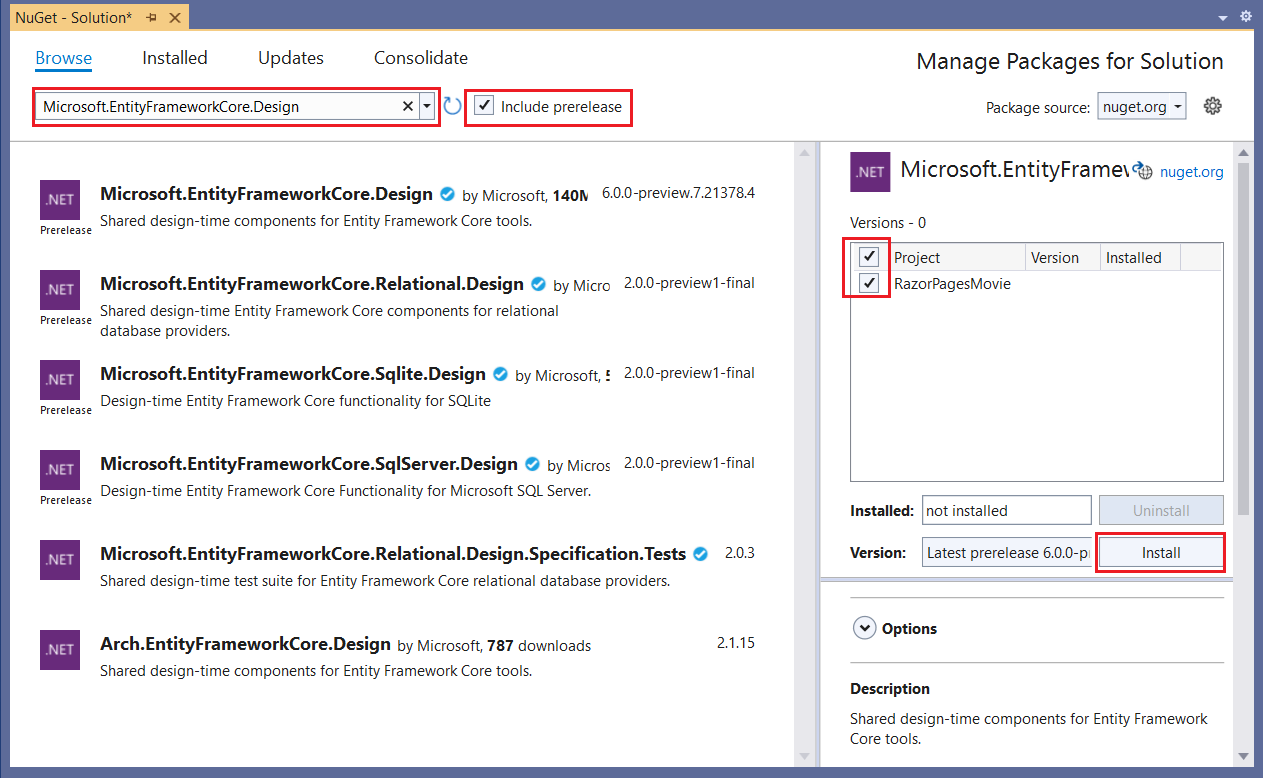
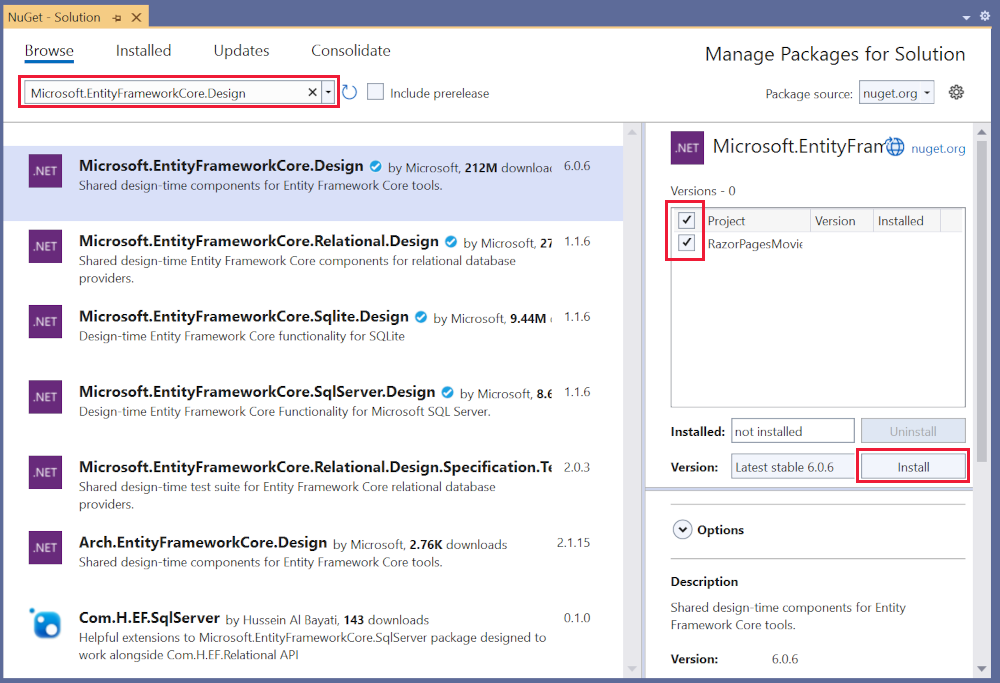
Updated scaffold pages and nuget screenshot

Changed region(s): [[0.0, 0.0, 1.0, 1.0], [0.558, 0.7687, 0.589, 0.8302], [0.558, 0.8917, 0.589, 0.9224]]

diff --git a/aspnetcore/tutorials/razor-pages/razor-pages-start/snapshot_sample6/Pages/Movies/Delete.cshtml.cs b/aspnetcore/tutorials/razor-pages/razor-pages-start/snapshot_sample6/Pages/Movies/Delete.cshtml.cs
@@ -10,10 +10,6 @@ using RazorPagesMovie.Models;
 
 namespace RazorPagesMovie.Pages.Movies
 {
-#pragma warning disable CS8618
-#pragma warning disable CS8601
-#pragma warning disable CS8602
-#pragma warning disable CS8604
     public class DeleteModel : PageModel
     {
         private readonly RazorPagesMovie.Data.RazorPagesMovieContext _context;
@@ -24,35 +20,39 @@ namespace RazorPagesMovie.Pages.Movies
         }
 
         [BindProperty]
-        public Movie Movie { get; set; }
+      public Movie Movie { get; set; } = default!;
 
         public async Task<IActionResult> OnGetAsync(int? id)
         {
-            if (id == null)
+            if (id == null || _context.Movie == null)
             {
                 return NotFound();
             }
 
-            Movie = await _context.Movie.FirstOrDefaultAsync(m => m.ID == id);
+            var movie = await _context.Movie.FirstOrDefaultAsync(m => m.ID == id);
 
-            if (Movie == null)
+            if (movie == null)
             {
                 return NotFound();
+            }
+            else 
+            {
+                Movie = movie;
             }
             return Page();
         }
 
         public async Task<IActionResult> OnPostAsync(int? id)
         {
-            if (id == null)
+            if (id == null || _context.Movie == null)
             {
                 return NotFound();
             }
+            var movie = await _context.Movie.FindAsync(id);
 
-            Movie = await _context.Movie.FindAsync(id);
-
-            if (Movie != null)
+            if (movie != null)
             {
+                Movie = movie;
                 _context.Movie.Remove(Movie);
                 await _context.SaveChangesAsync();
             }
@@ -60,8 +60,4 @@ namespace RazorPagesMovie.Pages.Movies
             return RedirectToPage("./Index");
         }
     }
-#pragma warning restore CS8618
-#pragma warning restore CS8601
-#pragma warning restore CS8602
-#pragma warning restore CS8604
 }

diff --git a/aspnetcore/tutorials/razor-pages/razor-pages-start/snapshot_sample6/Pages/Movies/Edit.cshtml.cs b/aspnetcore/tutorials/razor-pages/razor-pages-start/snapshot_sample6/Pages/Movies/Edit.cshtml.cs
@@ -11,9 +11,7 @@ using RazorPagesMovie.Models;
 
 namespace RazorPagesMovie.Pages.Movies
 {
-#pragma warning disable CS8618
-#pragma warning disable CS8601
-#pragma warning disable CS8604
+#region snippet2
     public class EditModel : PageModel
     {
         private readonly RazorPagesMovie.Data.RazorPagesMovieContext _context;
@@ -24,26 +22,27 @@ namespace RazorPagesMovie.Pages.Movies
         }
 
         [BindProperty]
-        public Movie Movie { get; set; }
+        public Movie Movie { get; set; } = default!;
 
         public async Task<IActionResult> OnGetAsync(int? id)
         {
-            if (id == null)
+            if (id == null || _context.Movie == null)
             {
                 return NotFound();
             }
 
-            Movie = await _context.Movie.FirstOrDefaultAsync(m => m.ID == id);
-
-            if (Movie == null)
+            var movie =  await _context.Movie.FirstOrDefaultAsync(m => m.ID == id);
+            if (movie == null)
             {
                 return NotFound();
             }
+            Movie = movie;
             return Page();
         }
 
         // To protect from overposting attacks, enable the specific properties you want to bind to.
         // For more details, see https://aka.ms/RazorPagesCRUD.
+		#region snippet1
         public async Task<IActionResult> OnPostAsync()
         {
             if (!ModelState.IsValid)
@@ -74,10 +73,9 @@ namespace RazorPagesMovie.Pages.Movies
 
         private bool MovieExists(int id)
         {
-            return _context.Movie.Any(e => e.ID == id);
+          return (_context.Movie?.Any(e => e.ID == id)).GetValueOrDefault();
         }
+#endregion
+#endregion
     }
-#pragma warning restore CS8618
-#pragma warning restore CS8601
-#pragma warning restore CS8604
 }

diff --git a/aspnetcore/tutorials/razor-pages/razor-pages-start/snapshot_sample6/Pages/Movies/Create.cshtml.cs b/aspnetcore/tutorials/razor-pages/razor-pages-start/snapshot_sample6/Pages/Movies/Create.cshtml.cs
@@ -5,9 +5,6 @@ using RazorPagesMovie.Models;
 
 namespace RazorPagesMovie.Pages.Movies
 {
-#pragma warning disable CS8618
-#pragma warning disable CS8602
-
     public class CreateModel : PageModel
     {
         private readonly RazorPagesMovie.Data.RazorPagesMovieContext _context;
@@ -23,13 +20,14 @@ namespace RazorPagesMovie.Pages.Movies
         }
 
         [BindProperty]
-        public Movie Movie { get; set; }
+        public Movie Movie { get; set; } = default!;
+        
 
         // To protect from overposting attacks, see https://aka.ms/RazorPagesCRUD
         #region snippetPost
         public async Task<IActionResult> OnPostAsync()
         {
-            if (!ModelState.IsValid)
+          if (!ModelState.IsValid || _context.Movie == null || Movie == null)
             {
                 return Page();
             }
@@ -41,7 +39,5 @@ namespace RazorPagesMovie.Pages.Movies
         }
         #endregion
     }
-#pragma warning restore CS8618
-#pragma warning restore CS8602
 }
 #endregion

diff --git a/aspnetcore/tutorials/razor-pages/razor-pages-start/snapshot_sample6/Pages/Movies/Index.cshtml.cs b/aspnetcore/tutorials/razor-pages/razor-pages-start/snapshot_sample6/Pages/Movies/Index.cshtml.cs
@@ -6,8 +6,6 @@ using RazorPagesMovie.Models;
 #region snippet
 namespace RazorPagesMovie.Pages.Movies
 {
-#pragma warning disable CS8618
-#pragma warning disable CS8604
     #region snippet2
     public class IndexModel : PageModel
     {
@@ -19,15 +17,16 @@ namespace RazorPagesMovie.Pages.Movies
         }
         #endregion
 
-        public IList<Movie> Movie { get; set; }
+        public IList<Movie> Movie { get;set; } = default!;
 
         public async Task OnGetAsync()
         {
-            Movie = await _context.Movie.ToListAsync();
+            if (_context.Movie != null)
+            {
+                Movie = await _context.Movie.ToListAsync();
+            }
         }
     }
-#pragma warning restore CS8618
-#pragma warning restore CS8604
 }
 #endregion
 #endregion

diff --git a/aspnetcore/tutorials/razor-pages/razor-pages-start/snapshot_sample6/Pages/Movies/IndexClean.cshtml.cs b/aspnetcore/tutorials/razor-pages/razor-pages-start/snapshot_sample6/Pages/Movies/IndexClean.cshtml.cs
@@ -17,11 +17,14 @@ namespace RazorPagesMovie.Pages.Movies
         }
         #endregion
 
-        public IList<Movie> Movie { get; set; }
+        public IList<Movie> Movie { get;set; } = default!;
 
         public async Task OnGetAsync()
         {
-            Movie = await _context.Movie.ToListAsync();
+            if (_context.Movie != null)
+            {
+                Movie = await _context.Movie.ToListAsync();
+            }
         }
     }
 }

diff --git a/aspnetcore/tutorials/razor-pages/razor-pages-start/sample/RazorPagesMovie60/Program.cs b/aspnetcore/tutorials/razor-pages/razor-pages-start/sample/RazorPagesMovie60/Program.cs
@@ -6,6 +6,7 @@ using Microsoft.EntityFrameworkCore;
 using Microsoft.Extensions.DependencyInjection;
 using RazorPagesMovie.Data;
 using RazorPagesMovie.Models;
+
 var builder = WebApplication.CreateBuilder(args);
 
 // Add services to the container.

diff --git a/aspnetcore/tutorials/razor-pages/da1.md b/aspnetcore/tutorials/razor-pages/da1.md
@@ -83,13 +83,13 @@ Test the behavior of `@page "{id:int?}"`:
 
 With the `@page "{id:int}"` directive, the break point is never hit. The routing engine returns HTTP 404. Using `@page "{id:int?}"`, the `OnGetAsync` method returns `NotFound` (HTTP 404):
 
-[!code-csharp[](~/tutorials/razor-pages/razor-pages-start/sample/RazorPagesMovie50/Pages/Movies/Details.cshtml.cs?name=snippet1&highlight=3-6)]
+[!code-csharp[](~/tutorials/razor-pages/razor-pages-start/snapshot_sample6/Pages/Movies/Details.cshtml.cs?name=snippet1&highlight=3-6)]
 
 ### Review concurrency exception handling
 
 Review the `OnPostAsync` method in the `Pages/Movies/Edit.cshtml.cs` file:
 
-[!code-csharp[](~/tutorials/razor-pages/razor-pages-start/sample/RazorPagesMovie30/Pages/Movies/Edit.cshtml.cs?name=snippet)]
+[!code-csharp[](~/tutorials/razor-pages/razor-pages-start/snapshot_sample6/Pages/Movies/Edit.cshtml.cs?name=snippet1)]
 
 The previous code detects concurrency exceptions when one client deletes the movie and the other client posts changes to the movie.
 
@@ -106,7 +106,7 @@ Production code may want to detect concurrency conflicts. See [Handle concurrenc
 
 Examine the `Pages/Movies/Edit.cshtml.cs` file:
 
-[!code-csharp[](~/tutorials/razor-pages/razor-pages-start/sample/RazorPagesMovie30/SnapShots/Edit.cshtml.cs?name=snippet2)]
+[!code-csharp[](~/tutorials/razor-pages/razor-pages-start/snapshot_sample6/Pages/Movies/Edit.cshtml.cs?name=snippet2)]
 
 When an HTTP GET request is made to the Movies/Edit page, for example, `https://localhost:5001/Movies/Edit/3`:
 

diff --git a/aspnetcore/tutorials/razor-pages/model.md b/aspnetcore/tutorials/razor-pages/model.md
@@ -195,9 +195,9 @@ The created files are explained in the next tutorial.
 The scaffold process adds the following highlighted code to the `Program.cs` file:
 
 # [Visual Studio](#tab/visual-studio)
-[!code-csharp[](~/tutorials/razor-pages/razor-pages-start/sample/RazorPagesMovie60/Program.cs?name=snippet_all&highlight=1-3,8-9)]
+[!code-csharp[](~/tutorials/razor-pages/razor-pages-start/sample/RazorPagesMovie60/Program.cs?name=snippet_all&highlight=1-3,9-10)]
 # [Visual Studio Code / Visual Studio for Mac](#tab/visual-studio-code+visual-studio-mac)
-[!code-csharp[](~/tutorials/razor-pages/razor-pages-start/sample/RazorPagesMovie60/Program.cs?name=snippet_all_sl&highlight=1-3,8-9)]
+[!code-csharp[](~/tutorials/razor-pages/razor-pages-start/sample/RazorPagesMovie60/Program.cs?name=snippet_all_sl&highlight=1-3,10-11)]
 
 ---
 

diff --git a/aspnetcore/tutorials/razor-pages/page.md b/aspnetcore/tutorials/razor-pages/page.md
@@ -4,7 +4,7 @@ author: rick-anderson
 description: Part 3 of tutorial series on Razor Pages.
 ms.author: riande
 monikerRange: '>= aspnetcore-3.1'
-ms.date: 09/25/2020
+ms.date: 06/17/2022
 ms.custom: contperf-fy21q2
 uid: tutorials/razor-pages/page
 ---
@@ -349,7 +349,7 @@ If there are no model errors:
 
 Examine the `Pages/Movies/Create.cshtml` Razor Page file:
 
-[!code-cshtml[](razor-pages-start/snapshot_sample3/RazorPagesMovie30/Pages/Movies/Create.cshtml)]
+[!code-cshtml[](razor-pages-start/snapshot_sample6/Pages/Movies/Create.cshtml)]
 
 # [Visual Studio](#tab/visual-studio)
 
